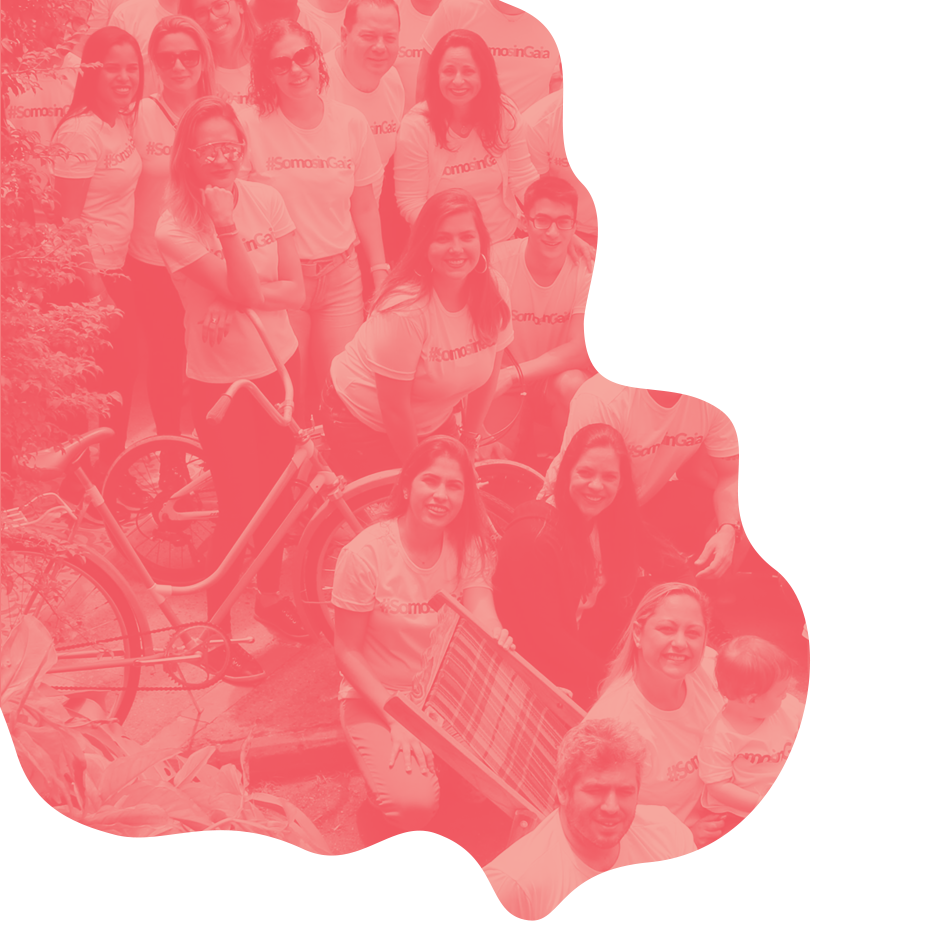
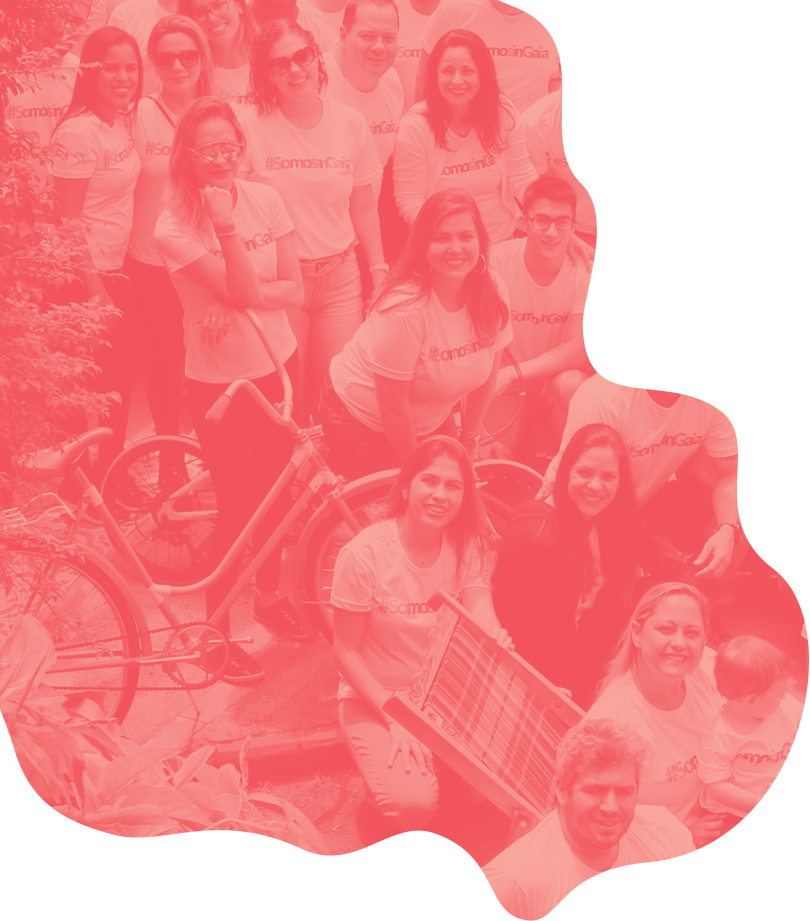
iniciando o parallax do fundo

diff --git a/index.html b/index.html
@@ -1,68 +1,68 @@
 <!DOCTYPE html>
 <html lang="pt-BR">
 <head>
-    <meta charset="UTF-8">
-    <meta name="viewport" content="width=device-width, initial-scale=1.0">
-    <meta http-equiv="X-UA-Compatible" content="ie=edge">
-    <!-- PROD and DEV CSS -->
-    <link rel="stylesheet" href="node_modules/ingaia.ux.styleguide/dist/app.min.css">
+  <meta charset="UTF-8">
+  <meta name="viewport" content="width=device-width, initial-scale=1.0">
+  <meta http-equiv="X-UA-Compatible" content="ie=edge">
+  <!-- PROD and DEV CSS -->
+  <link rel="stylesheet" href="node_modules/ingaia.ux.styleguide/dist/app.min.css">
 
-    <!-- MY CSS -->
-    <link rel="stylesheet" href="./node_modules/ingaia-font-icons/dist/ingaia-font-icons.min.css"> 
-    <link rel="stylesheet" href="css/template.min.css">
-    <link rel="stylesheet" href="css/animate.css">
+  <!-- MY CSS -->
+  <link rel="stylesheet" href="./node_modules/ingaia-font-icons/dist/ingaia-font-icons.min.css"> 
+  <link rel="stylesheet" href="css/template.min.css">
+  <link rel="stylesheet" href="css/animate.css">
 
-    <title>Styleguide área de testes</title>
+  <title>Styleguide área de testes</title>
 </head>
 <body>    
 
   <div class="container-fluid">
 
-      <div class="row">
-        <ul id="menu">
-            <li>
-                <a class="dot" href="#item-1"></a>
-          </li>
-          <li>
-            <a class="dot" href="#item-2"></a>
-          </li>
-          <li>
-            <a class="dot" href="#item-3"></a>
-          </li>
-            <li>
-            <a class="dot" href="#item-4"></a>
-          </li>
-            <li>
-              <a class="dot" href="#item-5"></a>
-            </li>
-            <li>
-              <a class="dot" href="#item-6"></a>
-            </li>
-            <li>
-              <a class="dot" href="#item-7"></a>
-            </li>
-        </ul>
-            
-    <div data-spy="scroll" data-target="#menu" class="page-wrapper">
+    <div class="row">
+      <ul id="menu">
+        <li>
+          <a class="dot" href="#item-1"></a>
+        </li>
+        <li>
+          <a class="dot" href="#item-2"></a>
+        </li>
+        <li>
+          <a class="dot" href="#item-3"></a>
+        </li>
+        <li>
+          <a class="dot" href="#item-4"></a>
+        </li>
+        <li>
+          <a class="dot" href="#item-5"></a>
+        </li>
+        <li>
+          <a class="dot" href="#item-6"></a>
+        </li>
+        <li>
+          <a class="dot" href="#item-7"></a>
+        </li>
+      </ul>
       
+      <div data-spy="scroll" data-target="#menu" class="page-wrapper">
+        
         <h1 id="item-1" style="height:1275px;">Em 2017, a inGaia cresceu...</h1>
         <a class="arrow-wrap" href="#goto-1">
-            <span class="arrow">aaa</span>
+          <span class="arrow">aaa</span>
         </a>
 
-      
+        
         <h1  id="item-2" style="height:1275px;">Vestiu a camisa e trabalhou muito!</h1>
         <p>Amet dolore vitae quas velit exercitationem id ea, totam minima qui quae. Dolorem et illum vitae ipsam, reprehenderit neque optio deleniti ex autem, esse doloribus quisquam est deserunt obcaecati mollitia quod reiciendis inventore illo modi tempora maxime debitis dolor facilis! Sint blanditiis perspiciatis repellat. Eligendi odit, excepturi debitis consequuntur beatae.</p>
 
-      
+        
         <h1  id="item-3" style="height:1275px;">Hello World 3</h1>
         <p>Dolorum ipsam a aut architecto suscipit pariatur et sapiente expedita voluptatem similique voluptatibus eveniet quae dolorem vero consectetur totam magnam labore placeat nemo nulla repudiandae aliquam, accusantium assumenda. Debitis nesciunt animi, illo, magnam natus voluptatem alias necessitatibus repudiandae assumenda facere voluptate iste tempora, sit optio beatae. Natus sapiente eius libero?</p>
 
-      
+        
         <h1  id="item-4" style="height:1275px;">Hello World 4</h1>
         <p>In officia aliquid dolore quam, omnis velit repellendus, temporibus earum esse dicta odit ratione asperiores magnam quo perspiciatis totam! Eaque provident nesciunt quisquam vero distinctio vel consequuntur dicta tempore velit voluptatem! Doloribus itaque, quae cumque numquam similique corrupti, totam perspiciatis illo natus deleniti dolores ut ipsam repudiandae praesentium magnam voluptatum?</p>
 
-      
+        
         <h1  id="item-5" style="height:1275px;">Hello World 5</h1>
         <p>Dolor quo, obcaecati aliquid suscipit nobis eos fuga inventore tempore incidunt debitis veniam soluta architecto amet dignissimos doloremque, voluptatum esse explicabo voluptatem modi pariatur rerum saepe cupiditate culpa distinctio placeat? Cupiditate ullam numquam labore iure, error itaque, consequuntur delectus repellendus voluptatibus, fuga tenetur, magnam nisi accusantium nesciunt excepturi rerum maiores.</p>
 
@@ -73,11 +73,11 @@
         <p>Dolor quo, obcaecati aliquid suscipit nobis eos fuga inventore tempore incidunt debitis veniam soluta architecto amet dignissimos doloremque, voluptatum esse explicabo voluptatem modi pariatur rerum saepe cupiditate culpa distinctio placeat? Cupiditate ullam numquam labore iure, error itaque, consequuntur delectus repellendus voluptatibus, fuga tenetur, magnam nisi accusantium nesciunt excepturi rerum maiores.</p>
         
       </div><!-- page-wrapper -->
-  </div><!-- row  -->
+    </div><!-- row  -->
   </div><!-- container-fluid  -->
 
-    <script src="https://code.jquery.com/jquery-3.2.1.min.js" integrity="sha256-hwg4gsxgFZhOsEEamdOYGBf13FyQuiTwlAQgxVSNgt4=" crossorigin="anonymous"></script>
-    <script src="node_modules/ingaia.ux.styleguide/dist/app.js"></script>
-    <script src="js/functions.js"></script>
+  <script src="https://code.jquery.com/jquery-3.2.1.min.js" integrity="sha256-hwg4gsxgFZhOsEEamdOYGBf13FyQuiTwlAQgxVSNgt4=" crossorigin="anonymous"></script>
+  <script src="node_modules/ingaia.ux.styleguide/dist/app.js"></script>
+  <script src="js/functions.js"></script>
 </body>
 </html>

diff --git a/css/template.scss b/css/template.scss
@@ -1,28 +1,23 @@
-h1 { color: #FFF; font-size: 30px; }
-h2 { color: #FFF; font-size: 22px; }
-p { color: #FFF; }
+// h1 { color: #FFF; font-size: 30px; }
+// h2 { color: #FFF; font-size: 22px; }
+// p { color: #FFF; }
 
-body{
-    background-image: url("../img/fundo-final.png");
-    background-color: #5eb9e6;
-}
+// div.parallax { background-color: #5eb9e6; }
+// .parallax {
+//     /* The image used */
+//     background-image: url("img_parallax.jpg");
 
-div.parallax { background-color: #5eb9e6; }
-.parallax {
-    /* The image used */
-    background-image: url("img_parallax.jpg");
+//     Set a specific height
+//     min-height: 500px; 
 
-    /* Set a specific height */
-    min-height: 500px; 
+//     /* Create the parallax scrolling effect */
+//     background-attachment: fixed;
+//     background-position: center;
+//     background-repeat: no-repeat;
+//     background-size: cover;
+// }
 
-    /* Create the parallax scrolling effect */
-    background-attachment: fixed;
-    background-position: center;
-    background-repeat: no-repeat;
-    background-size: cover;
-}
-
-section { margin: 7em 0 0 0; padding: 1em; min-height: 70vw; }
+/*section { margin: 7em 0 0 0; padding: 1em; min-height: 70vw; }
 section:not(:first-child){ margin: 15em 0 0 0; }
 
 footer { background-color: #191513; }
@@ -34,10 +29,157 @@ footer { background-color: #191513; }
 
 .page-wrapper { font-size: 90%;	width: 90%; max-width: 1124px; margin: 0 auto; position: relative; z-index: 1; } 
 
-// div.parallax { background-color: #5eb9e6; position: fixed; top: 0; left: 0; z-index: 0; width: 100%; height: 1000%; }
+div.parallax { background-color: #5eb9e6; position: fixed; top: 0; left: 0; z-index: 0; width: 100%; height: 1000%; }
 
 ul#menu { position: fixed; z-index: 3; top: calc( 50% - 72.5px ); left: 1em; }
 
 ul#menu li { list-style: none; margin: 0 0 10px 0; }
 
-ul#menu a.dot { display: block; width: 15px; height: 15px; border: 2px solid #FFF; content: " "; cursor: pointer; border-radius: 50%; }
+ul#menu a.dot { display: block; width: 15px; height: 15px; border: 2px solid #FFF; content: " "; cursor: pointer; border-radius: 50%; }*/
+
+
+
+// Magic parallax mixins
+$parallax-perspective : 1 !default;
+$parallax-element     : "body" !default;
+$parallax-ios         : true !default;
+
+@mixin parallax-init(
+  $perspective  : $parallax-perspective,
+  $element      : $parallax-element,
+  $parallax-ios : $parallax-ios
+  ) {
+  @if $element == "body" {
+    html, body {
+      width: 100%;
+      height: 100%;
+      margin: 0;
+      padding: 0;
+      overflow: hidden;
+    }
+  }
+  #{$element} {
+    overflow: auto;
+    perspective: $perspective * 1px;
+    transform-style: preserve-3d;
+    // Allows for smooth scrolling but disables parallax effects.
+    @if $parallax-ios == false {
+      -webkit-overflow-scrolling: touch;
+    }
+    // Preserve 3D
+    &, * {
+      transform-style: preserve-3d;
+    }
+  }
+}
+
+@mixin parallax(
+  $distance    : 0,
+  $perspective : $parallax-perspective
+  ) {
+  transform:
+    translateZ($distance * $perspective * 1px)
+    scale(abs($distance - 1))
+  ;
+  z-index: $distance * 1000;
+}
+
+// End of magic parallax mixins
+
+@import url(https://fonts.googleapis.com/css?family=Roboto:100);
+$primary: #1586D1;
+
+body{
+    margin: 0;
+    padding: 0;
+}
+
+@include parallax-init;
+
+.container-fluid {
+  .img1 {
+    top: 0px;
+    left: 0px;
+  }
+  .img2 {
+    @include parallax(.2);
+    top: 451px;
+    right: 352px;
+  }
+  .img3 {
+    @include parallax(.2);
+    top: 670px;
+    right: 104px;
+  }
+  .img4 {
+    @include parallax(.1);
+    top: 500px;
+    left: 500px;
+  }
+  .img5 {
+    top: 0px;
+    right: 43px;
+  }
+  .img6 {
+    @include parallax(.4);
+    top: 1180px;
+    left: 500px;
+  }
+  .img7 {
+    top: 1830px;
+    left: 0px;
+  }
+  .img8 {
+    @include parallax(.4);
+    top: 3585px;
+    right: 239px;
+  }
+  .img9 {
+    @include parallax(-1);
+    top: 3700px;
+    left: 94px;
+  }
+  .img10 {
+    @include parallax(.2);
+    top: 4600px;
+    right: -2px;
+  }
+  .img11 {
+    @include parallax(.2);
+    top: 6341px;
+    right: 86px;
+  }
+  .img12 {
+    top: 7130px;
+    left: 0px;
+  }
+  .img13 {
+    @include parallax(.4);
+    top: 1710px;
+    right: 630px;
+  }
+  > * {
+    position: absolute;
+  }
+}
+
+body {
+  font-family: Roboto, sans-serif;
+  font-weight: 100;
+  background: #5eb9e6;
+  line-height: 1;
+}
+
+h1, h2 {
+  font-weight: 100;
+  margin: 0;
+}
+
+h1 {
+  font-size: 5em;
+  color: $primary;
+}
+h2 {
+  font-size: 3em;
+  @include parallax(.2);
+}

diff --git a/css/template.min.css b/css/template.min.css
@@ -1,1 +1,1 @@
-h1{color:#FFF;font-size:30px}h2{color:#FFF;font-size:22px}p{color:#FFF}body{background-image:url("../img/fundo-final.png");background-color:#5eb9e6}div.parallax{background-color:#5eb9e6}.parallax{background-image:url("img_parallax.jpg");min-height:500px;background-attachment:fixed;background-position:center;background-repeat:no-repeat;background-size:cover}section{margin:7em 0 0 0;padding:1em;min-height:70vw}section:not(:first-child){margin:15em 0 0 0}footer{background-color:#191513}.page-header,.page-wrapper,.page-footer{position:relative}.page-header{text-indent:1em}.page-wrapper{font-size:90%;width:90%;max-width:1124px;margin:0 auto;position:relative;z-index:1}ul#menu{position:fixed;z-index:3;top:calc( 50% - 72.5px);left:1em}ul#menu li{list-style:none;margin:0 0 10px 0}ul#menu a.dot{display:block;width:15px;height:15px;border:2px solid #FFF;content:" ";cursor:pointer;border-radius:50%}
+@import url(https://fonts.googleapis.com/css?family=Roboto:100);body{margin:0;padding:0}html,body{width:100%;height:100%;margin:0;padding:0;overflow:hidden}body{overflow:auto;perspective:1px;transform-style:preserve-3d}body,body *{transform-style:preserve-3d}.container-fluid .img1{top:0px;left:0px}.container-fluid .img2{transform:translateZ(.2px) scale(.8);z-index:200;top:451px;right:352px}.container-fluid .img3{transform:translateZ(.2px) scale(.8);z-index:200;top:670px;right:104px}.container-fluid .img4{transform:translateZ(.1px) scale(.9);z-index:100;top:500px;left:500px}.container-fluid .img5{top:0px;right:43px}.container-fluid .img6{transform:translateZ(.4px) scale(.6);z-index:400;top:1180px;left:500px}.container-fluid .img7{top:1830px;left:0px}.container-fluid .img8{transform:translateZ(.4px) scale(.6);z-index:400;top:3585px;right:239px}.container-fluid .img9{transform:translateZ(-1px) scale(2);z-index:-1000;top:3700px;left:94px}.container-fluid .img10{transform:translateZ(.2px) scale(.8);z-index:200;top:4600px;right:-2px}.container-fluid .img11{transform:translateZ(.2px) scale(.8);z-index:200;top:6341px;right:86px}.container-fluid .img12{top:7130px;left:0px}.container-fluid .img13{transform:translateZ(.4px) scale(.6);z-index:400;top:1710px;right:630px}.container-fluid>*{position:absolute}body{font-family:Roboto, sans-serif;font-weight:100;background:#5eb9e6;line-height:1}h1,h2{font-weight:100;margin:0}h1{font-size:5em;color:#1586D1}h2{font-size:3em;transform:translateZ(.2px) scale(.8);z-index:200}

diff --git a/teste2.html b/teste2.html
@@ -1,0 +1,44 @@
+<!DOCTYPE html>
+<html lang="pt-BR">
+<head>
+  <meta charset="UTF-8">
+  <meta name="viewport" content="width=device-width, initial-scale=1.0">
+  <meta http-equiv="X-UA-Compatible" content="ie=edge">
+  <!-- PROD and DEV CSS -->
+  <link rel="stylesheet" href="node_modules/ingaia.ux.styleguide/dist/app.min.css">
+
+  <!-- MY CSS -->
+  <link rel="stylesheet" href="./node_modules/ingaia-font-icons/dist/ingaia-font-icons.min.css"> 
+  <link rel="stylesheet" href="css/template.min.css">
+  <link rel="stylesheet" href="css/animate.css">
+
+  <title>Styleguide área de testes</title>
+</head>
+<body>   
+
+
+<div class="container-fluid">
+  <img src="img/landing-page-01.png" alt="teste" class="img1 img-fluid" />
+  <div class="row">
+    <section>
+      <h1>Em 2017, a<br>inGaia cresceu...</h1>
+    </section>  
+  </div>
+  <img src="img/landing-page-02.png" alt="teste" class="img5 img-fluid" />
+  <img src="img/landing-page-03.png" alt="teste" class="img3 img-fluid" />
+  <img src="img/circle-01.png" alt="teste" class="img2 img-fluid" />
+  <img src="img/cheese_mark.png" alt="teste" class="img6 img-fluid" />
+  <img src="img/triangle.png" alt="teste" class="img13 img-fluid" />
+  <img src="img/landing-page-04.png" alt="teste" class="img7 img-fluid" />
+  <img src="img/landing-page-05.png" alt="teste" class="img8 img-fluid" />
+  <img src="img/landing-page-06.png" alt="teste" class="img9 img-fluid" />
+  <img src="img/landing-page-07.png" alt="teste" class="img10 img-fluid" />
+  <img src="img/landing-page-08.png" alt="teste" class="img11 img-fluid" />
+  <img src="img/landing-page-09.png" alt="teste" class="img12 img-fluid" />
+</div>
+
+  <script src="https://code.jquery.com/jquery-3.2.1.min.js" integrity="sha256-hwg4gsxgFZhOsEEamdOYGBf13FyQuiTwlAQgxVSNgt4=" crossorigin="anonymous"></script>
+  <script src="node_modules/ingaia.ux.styleguide/dist/app.js"></script>
+  <script src="js/functions.js"></script>
+</body>
+</html>
